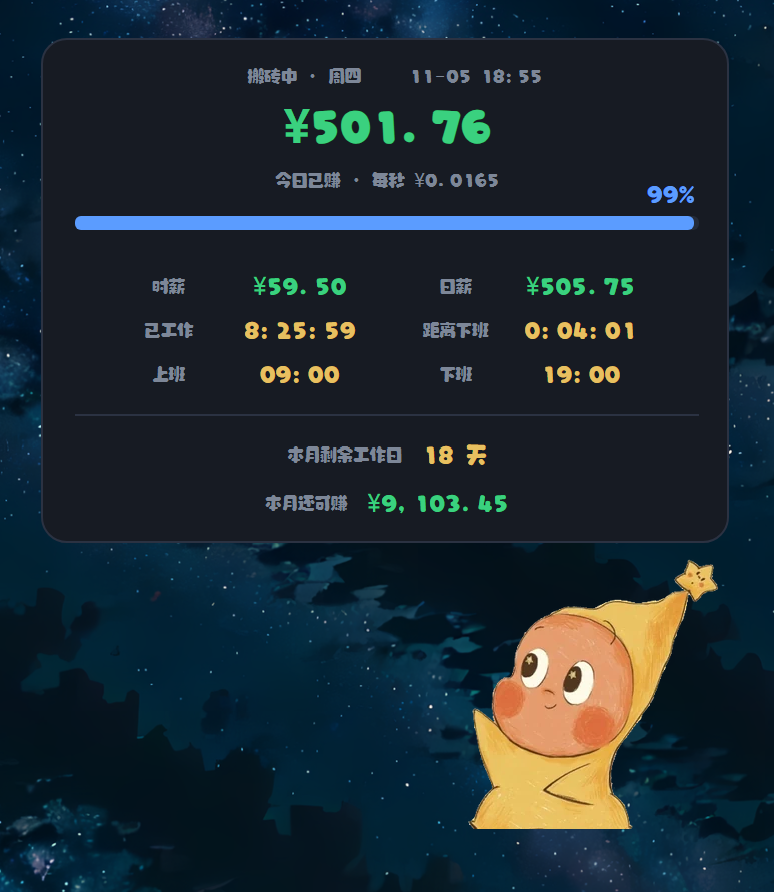
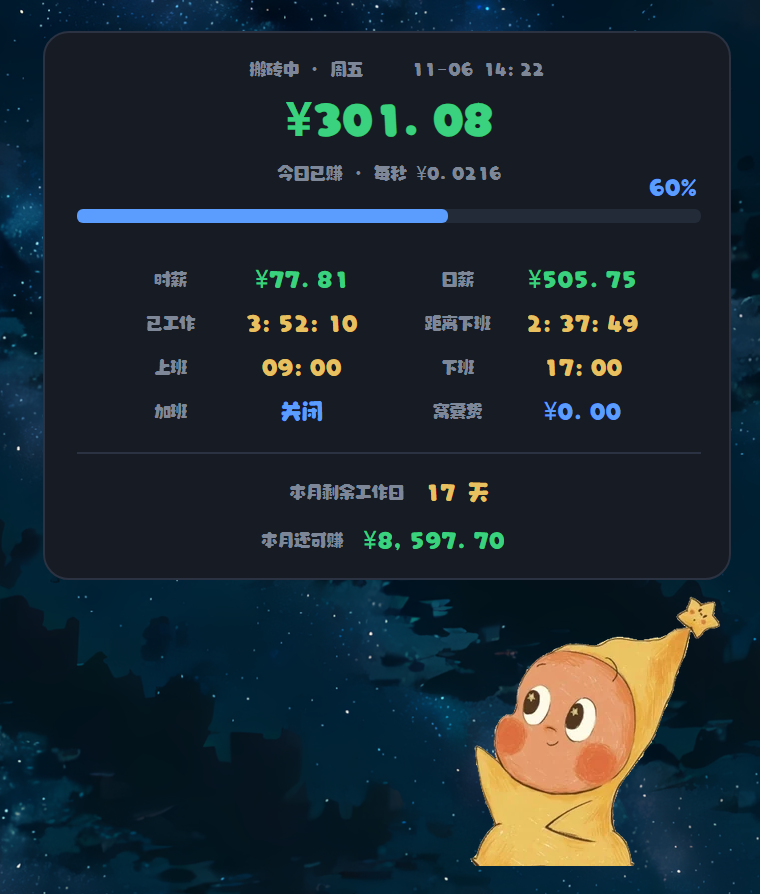
feat: v1.2.0 — 加班默认19:00开始、三档全0彩蛋(太窝囊了)、修时段显示矛盾与时段写反误判、更新截图

diff --git a/runtime/helper/renderer.js b/runtime/helper/renderer.js
@@ -138,7 +138,7 @@ function computeState(cfg) {
 	const otWorkRate = rateOf(cfg.overtime_rate_workday != null ? cfg.overtime_rate_workday : 1.5);
 	const otRestRate = rateOf(cfg.overtime_rate_weekend != null ? cfg.overtime_rate_weekend : 2);
 	const otHolidayRate = rateOf(cfg.overtime_rate_holiday != null ? cfg.overtime_rate_holiday : 3);
-	const otStartWorkdayMin = parseHHMM(cfg.overtime_start_workday, 1080);
+	const otStartWorkdayMin = parseHHMM(cfg.overtime_start_workday, 1140);
 	const otEndWorkdayMin = parseHHMM(cfg.overtime_end_workday, 1260);
 	const otStartWeekendMin = parseHHMM(cfg.overtime_start_weekend, 540);
 	const otEndWeekendMin = parseHHMM(cfg.overtime_end_weekend, 1020);
@@ -187,6 +187,63 @@ function monthRemainingWorkdays(D, now) {
 	}
 	return n;
 }
+
+/** 某一天按设置能拿多少加班工资（整天口径，不含「已经过去多少」）。
+ *  上班日走「上班日」那对时段并按工作日倍率；非上班日走另一对，
+ *  节假日倍率优先、否则周末倍率。上班日的午休不算加班。 */
+function overtimePayForDay(D, d) {
+	if (!D.otOn) return 0;
+	const dow = d.getDay() === 0 ? 7 : d.getDay();
+	if (!D.otDays.includes(dow)) return 0;
+	const workday = isWorkday(D, d);
+	const ds = ymd(d);
+	const isHoliday = D.holidays.includes(ds) && !D.extra.includes(ds);
+	let start, end, rate;
+	if (workday) {
+		start = D.otStartWorkdayMin;
+		end = D.otEndWorkdayMin;
+		rate = D.otWorkRate;
+	} else {
+		start = D.otStartWeekendMin;
+		end = D.otEndWeekendMin;
+		rate = isHoliday ? D.otHolidayRate : D.otRestRate;
+	}
+	if (rate <= 0 || end <= start) return 0;
+	// 上班日的午休从加班窗口里剔掉
+	let lunchIn = 0;
+	if (workday) {
+		const ls = D.startMin + D.lunchAfterMin;
+		const le = ls + D.lunchMin;
+		lunchIn = Math.max(0, Math.min(end, le) - Math.max(start, ls));
+	}
+	const spanMin = Math.max(0, end - start - lunchIn);
+	// 与上班时段重叠的那部分基础工资已经算在日薪里，只补倍率差额
+	let overlapMin = 0;
+	if (workday) {
+		const ovLo = Math.max(D.startMin, start);
+		const ovHi = Math.min(D.endMin, end);
+		if (ovHi > ovLo) {
+			const ls = D.startMin + D.lunchAfterMin;
+			const le = ls + D.lunchMin;
+			overlapMin = Math.max(0, ovHi - ovLo - Math.max(0, Math.min(ovHi, le) - Math.max(ovLo, ls)));
+		}
+	}
+	return Math.max(0, D.perSec * rate * spanMin * 60 - D.perSec * overlapMin * 60);
+}
+
+/** 本月剩余（含今天）：基本工资天数/金额 + 这些天按当前设置能拿的加班工资。 */
+function monthRemaining(D, now) {
+	const today = new Date(now.getFullYear(), now.getMonth(), now.getDate());
+	let days = 0;
+	let ot = 0;
+	const d = new Date(today);
+	while (d.getMonth() === today.getMonth()) {
+		if (isWorkday(D, d)) days += 1;
+		ot += overtimePayForDay(D, d);
+		d.setDate(d.getDate() + 1);
+	}
+	return { days, base: days * D.daily, ot };
+}
 function snapshot(D, now) {
 	const workday = isWorkday(D, now);
 	const ds = ymd(now);
@@ -223,33 +280,90 @@ function snapshot(D, now) {
 		// 节假日优先按节假日倍率，其余非上班日按周末倍率
 		otRate = isHoliday ? D.otHolidayRate : D.otRestRate;
 	}
-	if (!otDay) otRate = 0;
+	// 加班总开关关掉、或今天不是加班日 → 倍率归零（日薪柱、加班行、"距离加班" 全靠它判定）
+	if (!otDay || !D.otOn) otRate = 0;
+	// 时段写反了（结束早于开始）等于没配加班，倍率一并归零，
+	// 否则看板会出现「加班窗 0 小时但倍率 ×1.5」这种自相矛盾的显示
+	if (otEndMin <= otStartMin) otRate = 0;
 	// 下班之后、加班开始之前：上班族视角这是在休息，单独给一个阶段
-	if (workday && cur >= D.endMin && D.otOn && otDay && otRate > 0 && otStartMin > D.endMin && cur < otStartMin) {
+	//（窗口有效就显示"等加班"，不管倍率多少；时段写反则不算）
+	if (workday && cur >= D.endMin && D.otOn && otDay && otEndMin > otStartMin && otStartMin > D.endMin && cur < otStartMin) {
 		phase = "idle";
 	}
 	// 加班是独立时段：覆盖到当前时刻就按「窗口内已过时长」计，和正常工时分开累加
-	if (D.otOn && otDay && otRate > 0 && otEndMin > otStartMin && cur >= otStartMin) {
-		otWorked = (Math.min(cur, otEndMin) - otStartMin) * 60;
-		worked += otWorked;
-		// 落在加班窗口内 → 阶段显示「加班中」（优先于 搬砖中/今天休息）
-		if (cur < otEndMin) phase = "overtime";
+	let overlapMin = 0;
+	let overlapSpanMin = 0;
+	let otSpanMin = 0;
+	if (D.otOn && otDay && otEndMin > otStartMin) {
+		// 上班日的午休不算加班（人得吃饭）；休息日的加班窗口不扣午休。
+		// 上班日把午休从加班窗口里剔掉，否则「11:00–14:00 加班」会把
+		// 11:30–13:00 这 1.5 小时也按加班倍率发钱。
+		const ls2 = D.startMin + D.lunchAfterMin;
+		const le2 = ls2 + D.lunchMin;
+		const lunchIn = (a, b) => (workday ? Math.max(0, Math.min(b, le2) - Math.max(a, ls2)) : 0);
+		// 加班窗口「有效时长」：扣掉落在里面的午休
+		const otEffMin = (upto) => {
+			const lo = otStartMin;
+			const hi = Math.min(upto, otEndMin);
+			if (hi <= lo) return 0;
+			return Math.max(0, hi - lo - lunchIn(lo, hi));
+		};
+		otSpanMin = otEffMin(otEndMin);
+		if (cur >= otStartMin) {
+			otWorked = otEffMin(cur) * 60;
+			worked += otWorked;
+			// 落在加班窗口内 → 阶段显示「加班中」（优先于 搬砖中/今天休息）
+			if (cur < otEndMin) phase = "overtime";
+			// 加班窗口压到正常上班时段时（例如 16:00–20:00），这一段既在基础工时里、
+			// 又按加班倍率算了一遍，等于一份时间拿两份钱。记下重叠的已过时长，
+			// 结算时把重叠段的基础工资扣掉，让每一分钟只按一个费率（加班倍率）。
+			// 只在上��日做这件事：休息日的基础工时恒为 0，没有可扣的重复部分。
+			if (workday) {
+				const ovLo = Math.max(D.startMin, otStartMin);
+				const ovHi = Math.min(D.endMin, otEndMin);
+				if (ovHi > ovLo) {
+					const ovElapsed = Math.max(0, Math.min(cur, ovHi) - ovLo);
+					overlapMin = Math.max(0, ovElapsed - lunchIn(ovLo, ovLo + ovElapsed));
+					overlapSpanMin = Math.max(0, ovHi - ovLo - lunchIn(ovLo, ovHi));
+				}
+			}
+		}
 	}
 	const progress = D.netSec > 0 ? Math.max(0, Math.min(1, baseWorked / D.netSec)) : 0;
 	const otEarned = D.perSec * otRate * otWorked;
-	const remDays = monthRemainingWorkdays(D, now);
-	const otSpanMin = Math.max(0, otEndMin - otStartMin);
+	// 加班窗口压进上班时段的那几分钟已经含在 daily*progress 里了，
+	// 再按倍率算一次就是重复计薪；这里把重叠段按「一倍工资」扣回来。
+	const overlapPay = D.perSec * overlapMin * 60;
+	const rem = monthRemaining(D, now);
+	const remDays = rem.days;
+	// otSpanMin 在上面的加班分支里已经算好（扣过午休），这里不能再声明一次。
 	return {
-		now, workday, phase, worked, progress,
-		earned: D.daily * progress + otEarned,
+		now, workday, phase,
+		// 重叠段在 baseWorked 与 otWorked 里各算了一次，显示「已工作」时只能算一次
+		worked: Math.max(0, worked - overlapMin * 60),
+		progress,
+		earned: Math.max(0, D.daily * progress + otEarned - overlapPay),
 		remaining: Math.max(0, D.netSec - baseWorked),
 		// 加班中：这一栏改成「距离加班结束」，显示加班还剩多久
 		otRemaining: D.otOn && otRate > 0 ? Math.max(0, otSpanMin - otWorked / 60) * 60 : 0,
 		remDays,
-		// 「本月还可赚」保持原有口径：剩余工作日 × 日薪（不含加班，避免数字虚高）
-		monthLeft: remDays * D.daily,
+		// 「本月还可赚」拆成两段：基本工资（绿色）+ 本月剩余那些天的加班工资（蓝色）
+		monthBase: rem.base,
+		monthOt: rem.ot,
+		monthLeft: rem.base + rem.ot,
+		// 彩蛋：开着加班，但三档加班倍率全是 0（工作日/周末/节假日）——
+		// 三档都设成 0 就是"白加班"，不管实际本月加班费算出来是多少
+		otAllZero: D.otOn && D.otWorkRate <= 0 && D.otRestRate <= 0 && D.otHolidayRate <= 0,
 		otWorked, otRate, otEarned, otSpanMin,
-		otDaily: otRate > 0 ? D.perSec * otRate * otSpanMin * 60 : 0,
+		// 今天实际生效的那一对加班时段（工作日走上班日那对，非上班日走另一对），
+		// 看板上的「加班 18:00→21:00」必须显示今天真正在用的这一对
+		otStartMin, otEndMin,
+		// 今日加班工资（按整天加班窗口算，不含已过去多少）：
+		// 加班窗口整段按倍率算，再扣掉与上班时段重叠的那部分（那部分已在日薪里，
+		// 不能一份时间算两份钱）。
+		otDaily: otRate > 0 ? Math.max(0, D.perSec * otRate * otSpanMin * 60 - D.perSec * overlapSpanMin * 60) : 0,
+		// 日薪柱显示的「今日总额」：上班给一天日薪，加班另加今日加班工资
+		dailyTotal: (workday ? D.daily : 0) + (otRate > 0 ? Math.max(0, D.perSec * otRate * otSpanMin * 60 - D.perSec * overlapSpanMin * 60) : 0),
 	};
 }
 
@@ -393,8 +507,8 @@ function buildPanel() {
 		[124, "时薪", "perhour", C.MONEY, "日薪", "daily", C.MONEY],
 		[146, "已工作", "worked", C.GOLD, "距离下班", "remaining", C.GOLD],
 		[168, "上班", "startat", C.GOLD, "下班", "endat", C.GOLD],
-		// 加班时段与今日倍率：加班关掉时显示「关闭」/「—」
-		[190, "加班", "otspan", C.ACCENT, "倍率", "otrate", C.ACCENT],
+		// 加班时段与窝囊费：加班关掉时显示「关闭」/「—」
+		[190, "加班", "otspan", C.ACCENT, "窝囊费", "otrate", C.ACCENT],
 	];
 	for (const [yy, la, ka, ca, lb, kb, cb] of grid) {
 		mkEl(p, { left: labCx[0] + "px", top: yy + "px", transform: "translate(-50%,-50%)", color: C.DIM, fontSize: FONT.label + "px" }, la);
@@ -426,6 +540,15 @@ function buildPanel() {
 		val.textContent = "—";
 		Object.assign(val.style, { color, fontSize: FONT.small + "px" });
 		row.append(lab, val);
+		// 「本月还可赚」要做成「基本工资（绿）+ 加班工资（蓝）」两段，
+		// 再挂一个不占位的第二个 span，颜色单独设
+		if (key === "monthleft") {
+			const ot = document.createElement("span");
+			ot.textContent = "";
+			Object.assign(ot.style, { color: C.ACCENT, fontSize: FONT.small + "px", marginLeft: "-4px" });
+			row.appendChild(ot);
+			P.monthleftOt = ot;
+		}
 		p.appendChild(row);
 		P[key] = val;
 	}
@@ -463,7 +586,10 @@ function refreshPanel(snap) {
 	P.barFill.style.width = wpx + "px";
 
 	P.perhour.textContent = "¥" + money(D.perHour);
-	P.daily.textContent = "¥" + money(D.daily);
+	// 日薪保持常规排版（不拆两段）：只有「日薪」这一格文字长度正常，
+	// 拆成 505.75+350.13 会顶到左边标签上，用户明确要求保持原样。
+	// 日薪一栏：开了加班就把今天的加班工资加进去，显示「今天这一天总共能拿多少」
+	P.daily.textContent = "¥" + money(snap.dailyTotal);
 	P.worked.textContent = durText(snap.worked);
 	// 加班中 → 「距离加班结束」；下班到加班开始之间 → 「距离加班」；
 	// 其余时段保持「距离下班」
@@ -473,23 +599,42 @@ function refreshPanel(snap) {
 	} else if (snap.phase === "idle") {
 		if (P.remainingLabel && P.remainingLabel.textContent !== "距离加班") P.remainingLabel.textContent = "距离加班";
 		const cur = snap.now.getHours() * 60 + snap.now.getMinutes() + snap.now.getSeconds() / 60;
-		P.remaining.textContent = durText(Math.max(0, (D.otStartWorkdayMin - cur) * 60));
+		P.remaining.textContent = durText(Math.max(0, (snap.otStartMin - cur) * 60));
 	} else {
 		if (P.remainingLabel && P.remainingLabel.textContent !== "距离下班") P.remainingLabel.textContent = "距离下班";
 		P.remaining.textContent = durText(snap.remaining);
 	}
 	P.startat.textContent = fmtHHMM(D.startMin);
 	P.endat.textContent = fmtHHMM(D.endMin);
-	// 加班时段与今日倍率
-	const otOn = D.otOn && snap.otRate > 0;
-	const a1 = otOn ? fmtHHMM(D.otStartWorkdayMin) : "—";
-	const a2 = otOn ? fmtHHMM(D.otEndWorkdayMin) : "—";
-	const spanTxt = otOn ? a1 + "→" + a2 : "关闭";
+	// 加班时段 + 窝囊费：窝囊费就是今天的加班工资（加班多受的那份气换来的钱）。
+	// 不加班就是 0。和上面的「日薪」（基础日薪 + 加班工资）一对看，
+	// 日薪 − 窝囊费 = 不含加班的基础日薪。
+	// 时段显示：只要加班开着且窗口有效就显示时间（倍率 0 也显示，否则"加班中"却"关闭"矛盾）
+	const otWinOn = D.otOn && snap.otEndMin > snap.otStartMin;
+	const a1 = otWinOn ? fmtHHMM(snap.otStartMin) : "—";
+	const a2 = otWinOn ? fmtHHMM(snap.otEndMin) : "—";
+	const spanTxt = otWinOn ? a1 + "→" + a2 : "关闭";
 	if (P.otspan.textContent !== spanTxt) P.otspan.textContent = spanTxt;
-	const rateTxt = D.otOn ? (snap.otRate > 0 ? "×" + snap.otRate : "—") : "—";
-	if (P.otrate.textContent !== rateTxt) P.otrate.textContent = rateTxt;
+	const pouchTxt = "¥" + money(snap.otDaily);
+	if (P.otrate.textContent !== pouchTxt) P.otrate.textContent = pouchTxt;
 	P.remdays.textContent = snap.remDays + " 天";
-	P.monthleft.textContent = "¥" + money(snap.monthLeft);
+	// 「本月还可赚」= 基本工资（绿）+ 加班工资（蓝）。
+	// 加班工资是把本月剩余每一天按当前设置单独算一遍再加总
+	//（工作日/周末/节假日倍率不同，加班日也不一定等于上班日）。
+	// 加班关掉或本月剩余没有加班时，蓝色段不显示，只留绿色基本工资。
+	P.monthleft.textContent = "¥" + money(snap.monthBase);
+	if (P.monthleftOt) {
+		// 彩蛋：开了加班却三档倍率全 0，加班一分钱不给 → 蓝色段显示「+ 0 (太窝囊了)」
+		const otTxt = snap.otAllZero
+			? "+ 0 (太窝囊了)"
+			: snap.monthOt > 0.005
+				? "+¥" + money(snap.monthOt)
+				: "";
+		if (P.monthleftOt.textContent !== otTxt) P.monthleftOt.textContent = otTxt;
+		// 彩蛋状态用更暗的蓝灰，像是在自嘲，而不是正常的收入高亮
+		const otColor = snap.otAllZero ? "#6b7488" : C.ACCENT;
+		if (P.monthleftOt.style.color !== otColor) P.monthleftOt.style.color = otColor;
+	}
 }
 
 function refreshChip(snap) {

diff --git a/runtime/helper/settings.js b/runtime/helper/settings.js
@@ -50,7 +50,7 @@ const DEFAULT = {
 	// 加班日与上班日一样一周七天自己勾
 	overtime_enabled: false,
 	overtime_weekdays: [1, 2, 3, 4, 5],
-	overtime_start_workday: "18:00",
+	overtime_start_workday: "19:00",
 	overtime_end_workday: "21:00",
 	overtime_start_weekend: "09:00",
 	overtime_end_weekend: "17:00",
@@ -182,7 +182,7 @@ function build() {
 	});
 	ot.appendChild(otDaysWrap);
 
-	stepper(ot, "上班日加班开始", () => parse(cfg.overtime_start_workday, 1080), (v) => (cfg.overtime_start_workday = hhmm(v)), 30, hhmm);
+	stepper(ot, "上班日加班开始", () => parse(cfg.overtime_start_workday, 1140), (v) => (cfg.overtime_start_workday = hhmm(v)), 30, hhmm);
 	stepper(ot, "上班日加班结束", () => parse(cfg.overtime_end_workday, 1260), (v) => (cfg.overtime_end_workday = hhmm(v)), 30, hhmm);
 	stepper(ot, "非上班日加班开始", () => parse(cfg.overtime_start_weekend, 540), (v) => (cfg.overtime_start_weekend = hhmm(v)), 30, hhmm);
 	stepper(ot, "非上班日加班结束", () => parse(cfg.overtime_end_weekend, 1020), (v) => (cfg.overtime_end_weekend = hhmm(v)), 30, hhmm);
@@ -255,7 +255,7 @@ function overview() {
 	// 加班开启时补两行：加班时段 / 今日加班时薪
 	// （不再列倍率——三档倍率在「加班」分区里已经各自选好了）
 	if (cfg.overtime_enabled === true) {
-		const otStartWorkday = parse(cfg.overtime_start_workday, 1080);
+		const otStartWorkday = parse(cfg.overtime_start_workday, 1140);
 		const otEndWorkday = parse(cfg.overtime_end_workday, 1260);
 		const otStartWeekend = parse(cfg.overtime_start_weekend, 540);
 		const otEndWeekend = parse(cfg.overtime_end_weekend, 1020);
@@ -277,9 +277,12 @@ function overview() {
 		const todayRate = Math.max(0, Number(cfg[rateKey]) || 0);
 		const spanFrom = workdayToday ? otStartWorkday : otStartWeekend;
 		const spanTo = workdayToday ? otEndWorkday : otEndWeekend;
+		// 今天是不是加班日（和上班日各自独立选）
+		const oset = new Set((cfg.overtime_weekdays || [1, 2, 3, 4, 5]).map(Number));
+		const otDayToday = oset.has(dow);
 		rows.push(
-			["加班时段", hhmm(spanFrom) + "→" + hhmm(spanTo), "#5b9cff"],
-			["加班时薪", "¥" + money(perHour * todayRate), "#3ad17f"]
+			["加班时段", otDayToday ? hhmm(spanFrom) + "→" + hhmm(spanTo) : "今日不加班", "#5b9cff"],
+			["加班时薪", otDayToday ? "¥" + money(perHour * todayRate) : "—", "#3ad17f"]
 		);
 	}
 	for (const [k, v, color] of rows) {
@@ -305,7 +308,7 @@ async function save() {
 		say("非上班日加班结束必须晚于开始。");
 		return;
 	}
-	if (parse(cfg.overtime_start_workday, 1080) >= parse(cfg.overtime_end_workday, 1260)) {
+	if (parse(cfg.overtime_start_workday, 1140) >= parse(cfg.overtime_end_workday, 1260)) {
 		say("上班日加班结束必须晚于开始。");
 		return;
 	}

diff --git a/lib/index.js b/lib/index.js
@@ -60,7 +60,7 @@ export const DEFAULT_CONFIG = {
 	overtime_enabled: false,
 	overtime_weekdays: [1, 2, 3, 4, 5],
 	// 加班时段：正常上班日走「工作日」那一对，非上班日（周末/节假日）走另一对
-	overtime_start_workday: "18:00",
+	overtime_start_workday: "19:00",
 	overtime_end_workday: "21:00",
 	overtime_start_weekend: "09:00",
 	overtime_end_weekend: "17:00",
